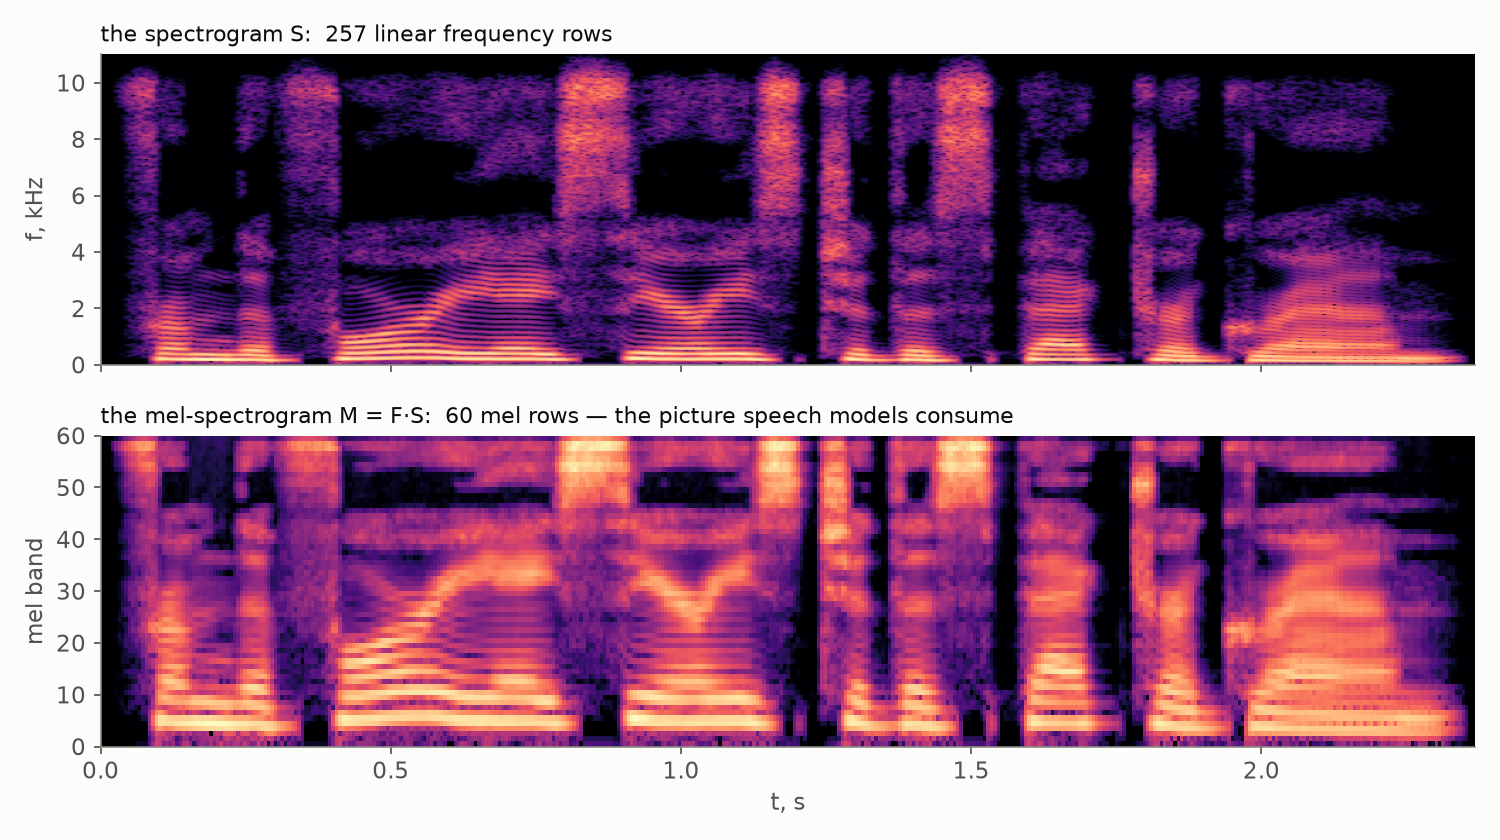
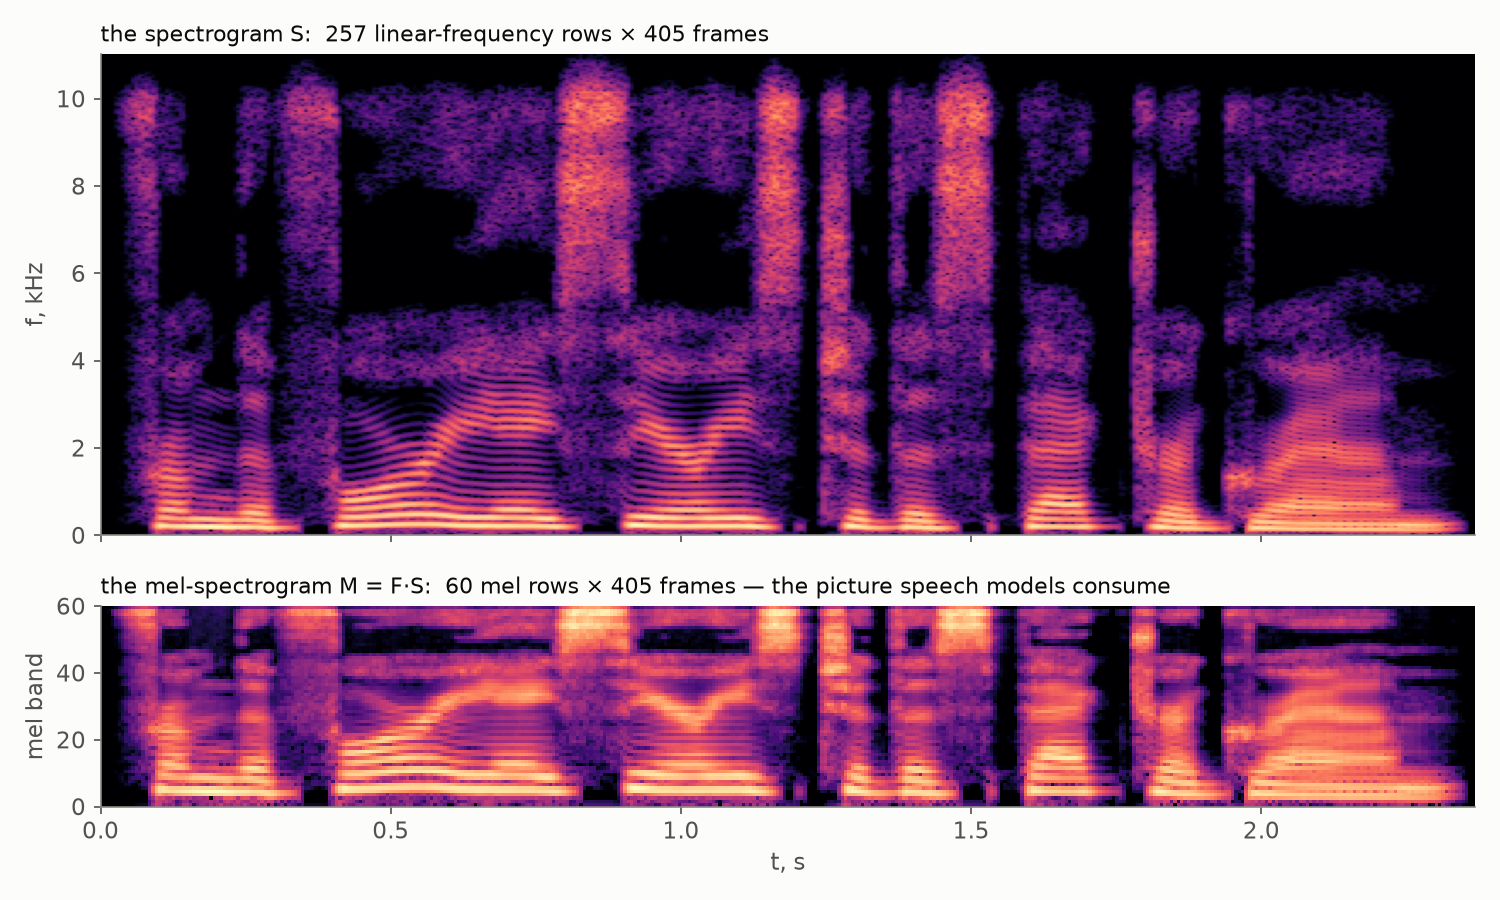
Mel section: filterbank-as-matrix figure with dims, S-to-M size contrast, pipeline accounting table
One filter per row, M = F.S with explicit shapes; comparison figure
heights now show the squeeze; honest table: S doubles the numbers
(overlap), real compression arrives with mel.

diff --git a/content/posts/fourier-series-to-spectrogram-part-3/index.md b/content/posts/fourier-series-to-spectrogram-part-3/index.md
@@ -270,18 +270,30 @@ discriminates finely) and takes ever-larger strides up high:
 
 ![The mel curve and a mel filter bank](mel_scale.png)
 
-To convert a spectrogram, build a **mel filter bank** $F$: a few dozen
+To convert a spectrogram, build a **mel filter bank**: a few dozen
 triangular filters, evenly spaced *in mel* — therefore narrow and dense at
-low frequencies, wide and sparse at high ones (bottom panel above). Each
-filter takes a weighted sum of the spectrogram rows it covers, so the whole
-conversion is one matrix multiplication per column,
+low frequencies, wide and sparse at high ones (bottom panel above). Now
+stack the triangles into a matrix $F$, **one filter per row**: each row is
+one triangle from the picture above, written out as its weights over all
+the frequency bins. With $60$ filters over the $257$ frequency rows of our
+spectrogram, $F$ is a $60 \times 257$ matrix:
+
+![The mel filter bank stacked into a matrix, one triangle per row](mel_matrix.png)
+
+The whole conversion is then a single matrix multiplication. One column of
+the spectrogram is a vector of $257$ magnitudes; multiplying by $F$ takes
+$60$ weighted sums of it — one sum per filter, each collecting the bins
+under its triangle. And multiplying $F$ by *all* the columns at once
+handles the entire recording in one stroke:
 
 $$
-M = F \cdot S,
+M = F \cdot S, \qquad (60 \times 257) \cdot (257 \times T) = 60 \times T,
 $$
 
-followed by the same logarithm as before. The result is the
-**mel-spectrogram**:
+where $T$ is the number of frames. A logarithm on top — the same dB story
+as before — and the result is the **mel-spectrogram**, every column
+squeezed from $257$ linear-frequency numbers into $60$ perceptually spaced
+ones:
 
 ![The spectrogram and its mel-compressed version](mel_spectrogram.png)
 
@@ -292,6 +304,28 @@ compact, perceptually weighted, still laid out in time — is the actual
 input of most speech recognition and synthesis models: when a paper says
 "we feed the audio to the network", this matrix is almost always what is
 being fed.
+
+One last piece of accounting closes the story: what did the whole pipeline
+buy, in raw numbers? For our recording:
+
+| representation | shape | numbers total | the time axis |
+|---|---|---|---|
+| waveform | $52\,225$ samples | $52\,225$ | $22\,050$ values per second |
+| spectrogram $S$ | $257 \times 405$ | $104\,085$ | $\approx 170$ columns per second |
+| mel-spectrogram $M$ | $60 \times 405$ | $24\,300$ | $\approx 170$ columns per second |
+
+Two honest surprises in this table. First, the spectrogram is *not* a
+compression: overlapping frames see every sample about four times, so $S$
+holds twice as many numbers as the waveform it came from. What changed is
+the *organization*: the time axis became $128$ times coarser — one column
+per hop instead of one value per sample — and in exchange each column
+spells out explicitly what the samples only implied: which frequencies are
+present at that moment. Second, the genuine shrinkage arrives only with the
+mel step: $M$ is less than half the raw waveform and a quarter of $S$ — and
+yet, as the pictures show, still perfectly legible: the harmonics, the
+fricative bursts, the silences between words all survived. Fewer numbers,
+arranged so that the structure shows — that, in one line, is what audio
+feature extraction is for.
 
 ## The road, walked
 
